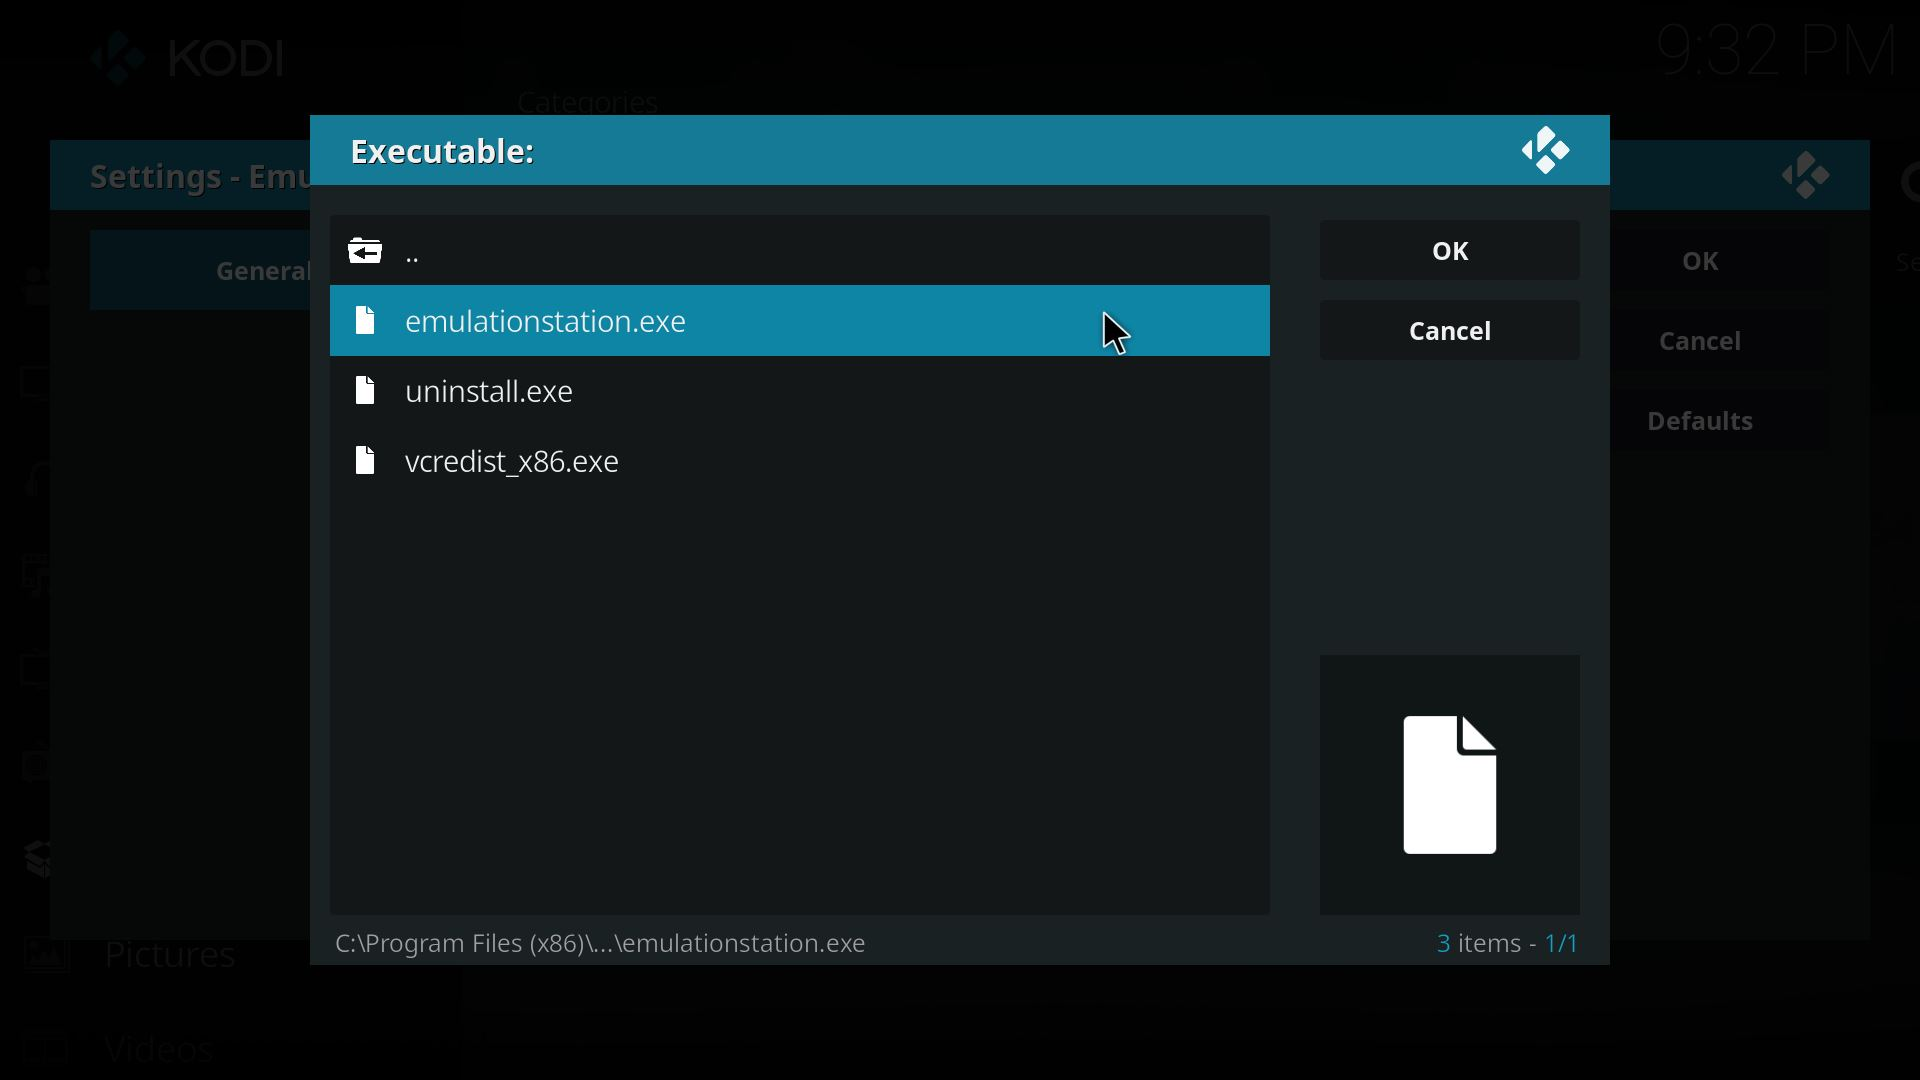
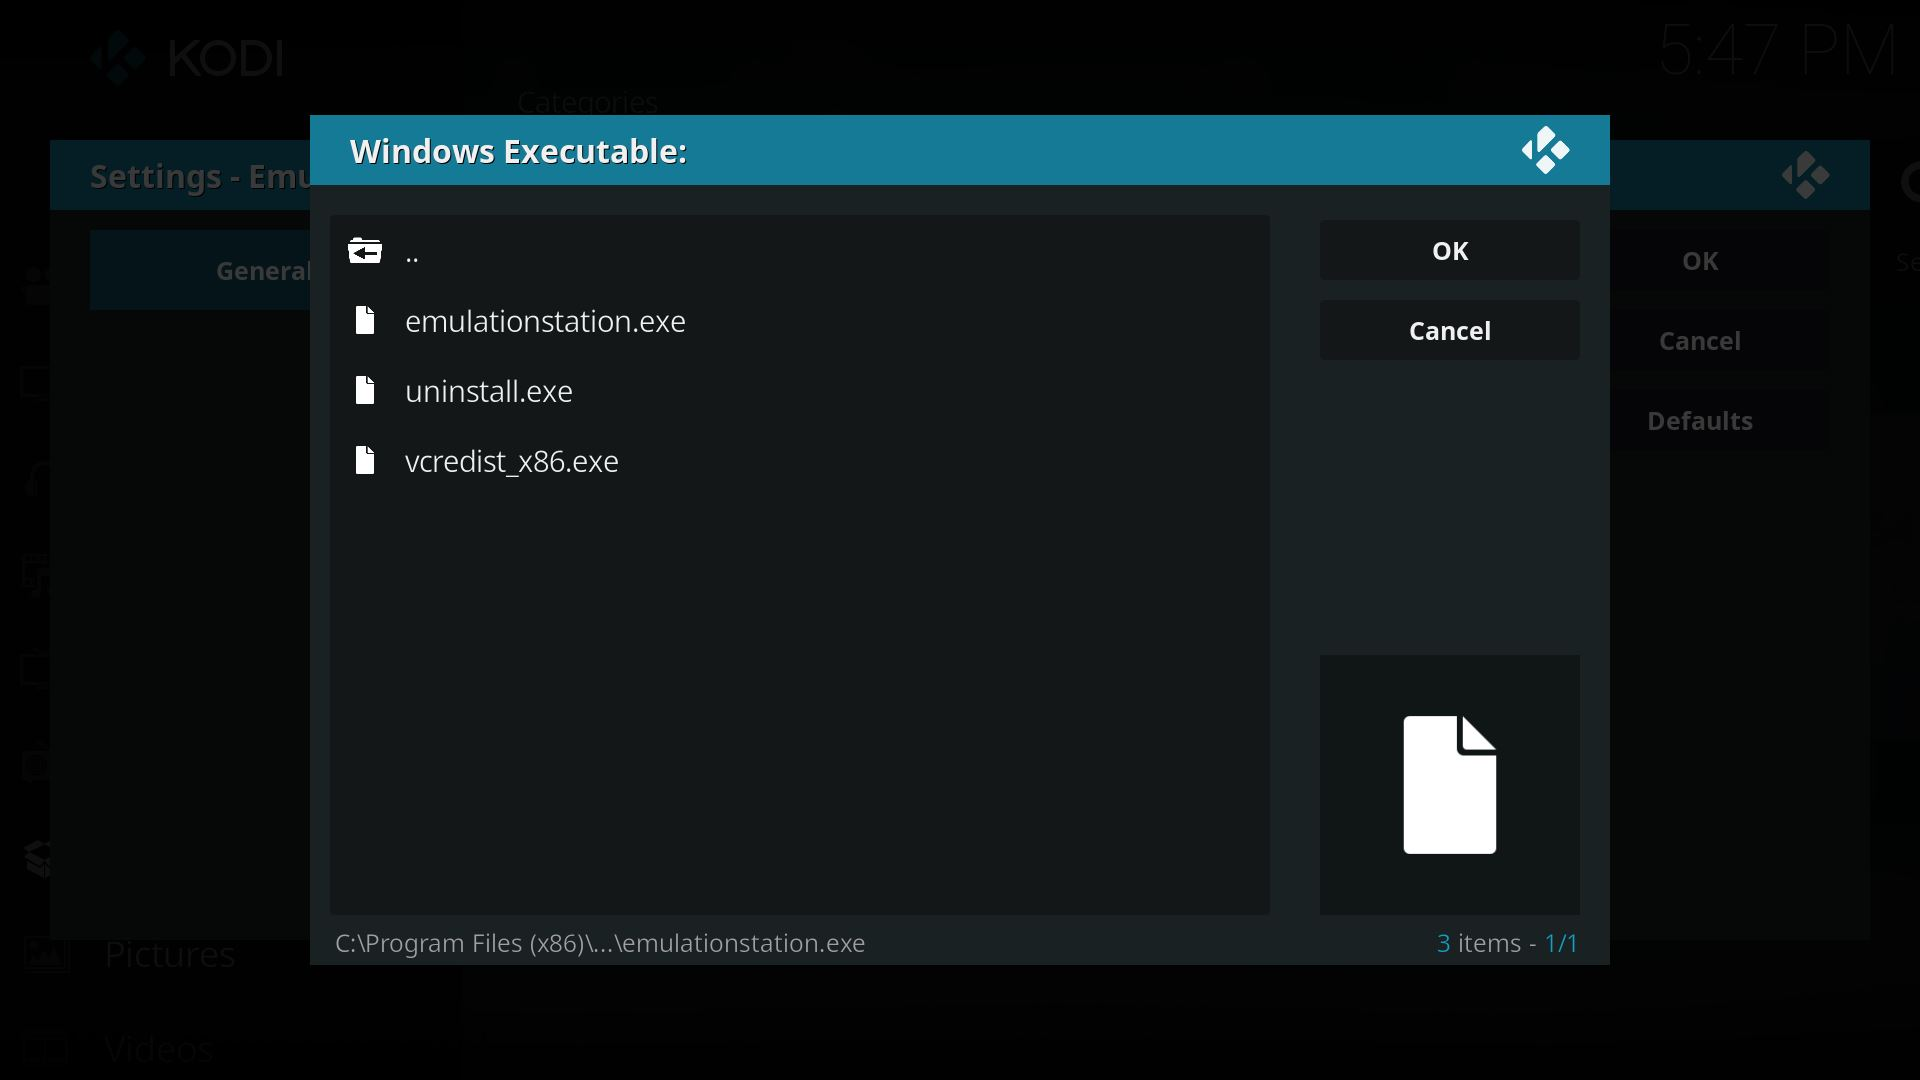
Added individual settings for executable locations for Windows and Linux.

Changed region(s): [[0.1562, 0.2444, 0.6875, 0.3361], [0.1875, 0.1222, 0.375, 0.1528]]

diff --git a/script.kodi.launches.emulationstation/addon.py b/script.kodi.launches.emulationstation/addon.py
@@ -1,10 +1,15 @@
+# Kodi modules
 import xbmc
 import xbmcaddon
 import xbmcgui
 
+# Python modules
+import platform
 import os.path
 import subprocess
 
+
+# Getting constants
 __addon__ = xbmcaddon.Addon('script.kodi.launches.emulationstation')
 __addonId__ = __addon__.getAddonInfo('id')
 __addonName__ = __addon__.getAddonInfo('name')
@@ -12,21 +17,39 @@ __version__ = __addon__.getAddonInfo('version')
 __localizedMessages__ = __addon__.getLocalizedString
 
 
+# Method to print logs on a standard way
 def log(message, level=xbmc.LOGNOTICE):
     xbmc.log('[%s:v%s] %s' % (__addonId__, __version__, message.encode('utf-8')), level)
+# end of log
 
+# Starting the Addon
+log("Starting " + __addonName__)
 
-log("Starting Kodi-Launches-EmulationStation-Addon")
+# Var to hold  the path where the EmulationStation executable is
+executable = ""
 
-
-emulationstation_exec = __addon__.getSetting('emulationstation_exec').decode('utf-8')
-
-
-if not os.path.isfile(emulationstation_exec):
-   xbmcgui.Dialog().ok(__localizedMessages__(32000), __localizedMessages__(32001) ,__localizedMessages__(32002), __localizedMessages__(32003) + emulationstation_exec)
-   xbmcgui.Dialog().ok(__localizedMessages__(32004), __localizedMessages__(32005))
-   log("EmulationStation executable was not found on the specified location: " + emulationstation_exec, xbmc.LOGERROR)
+# We are going to ask on which platform this is running so we can load the default executable location for it
+if platform.system() == "Windows":
+    # If the platform is Windows
+    executable = __addon__.getSetting('windowsExecutable').decode('utf-8')
+    log("Loaded Windows executable location from Settings: " + executable)
 
 else:
-    log("Starting EmulationStation executable")
-    subprocess.call([emulationstation_exec])
+    # Otherwise it is Linux because EmulationStation currently runs on Windows, Debians and RetroPie
+    executable = __addon__.getSetting('linuxExecutable').decode('utf-8')
+    log("Loaded Linux executable location from Settings: " + executable)
+
+
+# When you choose an executable from Kodi when changing Addon Settings, Kodi forces you to select an executable that exists, but we want to validate
+# if the executable exists anyways, just in case the default value doesn't work or the settings were manually changed
+if not os.path.isfile(executable):
+    # This message prints something like: EmulationStation executable was not found, go to Addon-Configure and change it
+    xbmcgui.Dialog().ok(__localizedMessages__(32000), __localizedMessages__(32001) ,__localizedMessages__(32002), __localizedMessages__(32003) + executable)
+    # This message prints something like: Please check that EmulationStation is installed
+    xbmcgui.Dialog().ok(__localizedMessages__(32004), __localizedMessages__(32005))
+    # Log the error
+    log("EmulationStation executable was not found on this specified location: " + executable, xbmc.LOGERROR)
+
+else:
+    log("Starting EmulationStation executable: " + executable)
+    subprocess.call([executable])

diff --git a/README.md b/README.md
@@ -1,11 +1,15 @@
 # Kodi Launches EmulationStation Addon
-Addon for Kodi to launch EmulationStation.
+Addon for Kodi to launch EmulationStation on Windows and Linux (platforms were EmulationStation have official support).
+
+Our goal is to bring to Kodi an easy access to launch this fantastic emulator front-end which provides a beautiful interface to run your roms from more than 50 systems (and counting) with personalized skins and art boxes. You can navigate on its menus using a controller which is perfect for a complete HTPC experience, also it has a built-in metadata scraper that lets you easily download game box art, correct titles, description and even ratings about your games. EmulationStation is cross-platform, and completely open source.
+
+This Addonn was made for Kodi Krypton v17.x and higher since it takes advantage of new features introduced on this version.
 
 ## Usage
-Use this Addon on Kodi if you want to launch EmulationStation from it using a nice interface created with original images taken from the program itself and games. It works on any platform where Kodi and EmulationStation can be installed (Linux, Windows, MacOS).
+Use this Addon on Kodi if you want to launch EmulationStation from it using a nice interface created with original images taken from the program itself and games. It works on any platform where Kodi and EmulationStation can be installed (Linux and Windows).
 
-**Note:**  
-This Addon is just a launcher, so it assumes that you already have installed and configured EmulationStation on your system. It will not assist you to install or configure EmulationStation or download roms or bios for it, you need to provide them.
+**Notes:**  
+This Addon is just a launcher, so it assumes that you already have installed and configured EmulationStation on your system. It will not assist you to install or configure EmulationStation or download roms or bios for it, you need to provide them by your own. This Addon does not collect any kind of hardware/software information, usage statistics or any kind of data from you or your system, we respect your privacy.
 
 
 ![Addon-Selected-Information.jpg](/script.kodi.launches.emulationstation/resources/addon-screenshots/Addon-Selected-Information.jpg)
@@ -29,11 +33,11 @@ After that you need to install and configure EmulationStation, to download and g
 
    ![Addon-Selected.jpg](script.kodi.launches.emulationstation/resources/addon-screenshots/Addon-Selected.jpg)
 
-4. Before running the Addon, you need to set the location of the EmulationStation executable, the default location is set to `C:\Program Files (x86)\EmulationStation\emulationstation.exe`, this is assuming you are using Windows and you installed it on the default location, but if your executable is not on this path, or you are using Linux or MacOS, you can choose your own location by going to the Addon-Settings by selecting the EmulationStation Addon, bringing up the contextual menu by right-clicking it (or pressing the `Guide` button on a remote, or pressing `C` or `Start` keys on a keyboard) and selecting `Settings` or `Configure`.   
+4. Before running the Addon, you need to set the location of the EmulationStation executable, the default location for Windows is `C:\Program Files (x86)\EmulationStation\emulationstation.exe` while for Linux it is `/usr/bin/emulationstation`, if you installed EmulationStation on a different location, you can choose your own location by going to the Addon-Settings by selecting the EmulationStation Addon, bringing up the contextual menu by right-clicking it (or pressing the `Guide` button on a remote, pressing `C` key on a keyboard, pressing `X` button on Xbox or Steam Controllers or `Square` button on PayStation controllers) and selecting `Settings` or `Configure`.   
 
    ![Addon-Settings.jpg](script.kodi.launches.emulationstation/resources/addon-screenshots/Addon-Settings.jpg)
 
-   The next window will show you the `EmulationStation executable` property that you can select and change by navigating on the file browser to select your location. For Linux users, if you installed EmulationStation using an installer, you can try to look at `/usr/local/bin/emulationstation` first, otherwise select your custom location. If you provided an executable that doesn't exist anymore, the next time you try to run it the Addon will show you an error message suggesting you to go to the Addon-Settings and change it.   
+   The next window will show you the `EmulationStation executables` properties that you can select and change them by navigating on the file browser. You only need to edit the executable property of the OS you are running since the other would be ignored. The Addon during its execution checks which OS is running and will call the corresponding executable. If you provided an executable that doesn't exist anymore, the next time you try to run it the Addon will show you an error message suggesting you to go to the Addon-Settings and change it.   
 
    ![Addon-Settings-Edit-Executable.jpg](script.kodi.launches.emulationstation/resources/addon-screenshots/Addon-Settings-Edit-Executable.jpg)
 

diff --git a/LICENSE.md b/LICENSE.md
@@ -17,12 +17,13 @@
 - Changes applied on this distribution: Renamed to "icon.png"
 
 
-#### Screenshots "theming_system.png" and "theming_list.png"
+#### Screenshots "theming_system.png", "theming_list.png" and "201_new_themes.png"
 - Description: Screenshots of a running instance of EmulationStation
 - Author: Programming by Alec Lofquist. Design & UI by Nils Bonenberger
 - Source: http://emulationstation.org/
 - Download: http://emulationstation.org/assets/featurettes/full/theming_system.png
 - Download: http://emulationstation.org/assets/featurettes/full/theming_list.png
+- Download: http://emulationstation.org/news/wp-content/uploads/2015/03/201_new_themes.png
 - Changes applied on this distribution: "theming_system.png" converted to JPG format and renamed to "fanart.jpg"
 
 
